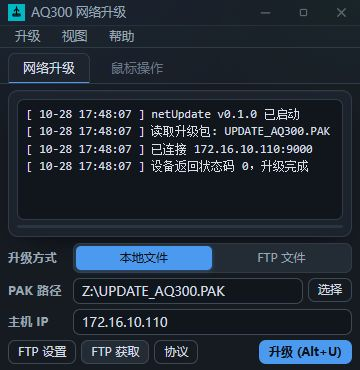
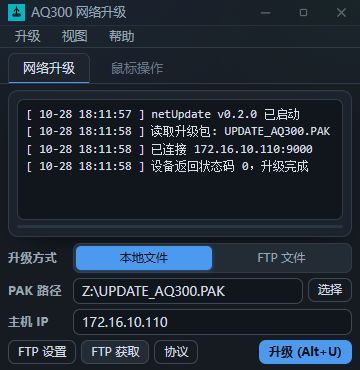
Release v0.2.0

Changed region(s): [[0.2139, 0.2973, 0.3667, 0.4757], [0.6417, 0.2973, 0.7028, 0.327]]

diff --git a/src/App.tsx b/src/App.tsx
@@ -28,7 +28,7 @@ import {
   type SessionState,
 } from "./lib/types";
 
-const BUILD_TIME = "2026.10.19";
+const BUILD_TIME = "2026.10.28";
 const SAVE_DELAY = 500;
 const MAX_LOG_LINES = 1200;
 
